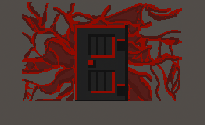
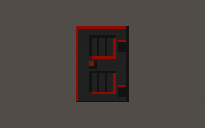
3 exit doors (1 real, 2 fake), single random key, battery 40s/drain

diff --git a/main.js b/main.js
@@ -269,29 +269,6 @@ function spawnEnemy() {
   enemy.y = close.y + 0.5;
 }
 
-function spawnTestItems() {
-  items = [];
-  const types = ['key_exit', 'key_fake1', 'key_fake2', 'map_piece'];
-  for (let i = 0; i < types.length; i++) {
-    for (let attempt = 0; attempt < 20; attempt++) {
-      const a = Math.random() * Math.PI * 2;
-      const dist = 2 + Math.random() * 3;
-      let x = player.x + Math.cos(a) * dist;
-      let y = player.y + Math.sin(a) * dist;
-      if (x >= 0 && x < MAP_W && y >= 0 && y < MAP_H && !isWall(x, y)) {
-        items.push({ x, y, type: types[i], collected: false });
-        break;
-      }
-    }
-  }
-  for (let i = 0; i < 10; i++) {
-    const cell = navCells[Math.random() * navCells.length | 0];
-    if (cell) {
-      items.push({ x: cell.x + 0.5, y: cell.y + 0.5, type: 'battery', collected: false });
-    }
-  }
-}
-
 function hasLineOfSight(x1, y1, x2, y2) {
   const dx = x2 - x1, dy = y2 - y1;
   const dist = Math.hypot(dx, dy);
@@ -450,10 +427,9 @@ doorMidTex.src = 'assets/images/door_mid.png';
 const doorOpenTex = new Image();
 doorOpenTex.src = 'assets/images/door_open.png';
 
-let exitDoorState = 'closed', exitDoorTimer = 0, exitDoorTimerMax = 0;
-let exitDoorX = -1, exitDoorY = -1;
+let exitDoors = [];
 
-function findExitDoor() {
+function findExitDoors() {
   const candidates = [];
   for (let y = 2; y < MAP_H - 2; y++) {
     for (let x = 2; x < MAP_W - 2; x++) {
@@ -466,13 +442,32 @@ function findExitDoor() {
       }
     }
   }
-  if (candidates.length) {
-    const pick = candidates[Math.random() * candidates.length | 0];
-    exitDoorX = pick.x; exitDoorY = pick.y;
-  } else {
-    exitDoorX = 3; exitDoorY = 3;
+  exitDoors = [];
+  const shuffled = candidates.slice().sort(() => Math.random() - 0.5);
+  for (let i = 0; i < 3 && i < shuffled.length; i++) {
+    exitDoors.push({
+      x: shuffled[i].x, y: shuffled[i].y,
+      state: 'closed', timer: 0, timerMax: 0,
+      isReal: i === 0
+    });
   }
-  exitDoorState = 'closed'; exitDoorTimer = 0; exitDoorTimerMax = 0;
+}
+
+function spawnKey() {
+  items = [];
+  const cells = [];
+  for (let y = 1; y < MAP_H; y += 2) {
+    for (let x = 1; x < MAP_W; x += 2) {
+      if (maze[y][x] === 0) {
+        const dist = Math.hypot(x + 0.5 - 1.5, y + 0.5 - 1.5);
+        if (dist > 3) cells.push({ x, y });
+      }
+    }
+  }
+  if (cells.length) {
+    const c = cells[Math.random() * cells.length | 0];
+    items.push({ x: c.x + 0.5, y: c.y + 0.5, type: 'key_exit', collected: false });
+  }
 }
 
 
@@ -531,18 +526,29 @@ function isWall(x, y) {
   return maze[my][mx] === 1;
 }
 
-function findExitDoorFace() {
-  const wallCX = exitDoorX + 0.5, wallCY = exitDoorY + 0.5;
+function findDoorFace(door) {
+  const wallCX = door.x + 0.5, wallCY = door.y + 0.5;
   const dx = player.x - wallCX, dy = player.y - wallCY;
   let fx, fy;
   if (Math.abs(dx) > Math.abs(dy)) {
-    fx = exitDoorX + (dx > 0 ? 1 : 0);
+    fx = door.x + (dx > 0 ? 1 : 0);
     fy = wallCY;
   } else {
     fx = wallCX;
-    fy = exitDoorY + (dy > 0 ? 1 : 0);
+    fy = door.y + (dy > 0 ? 1 : 0);
   }
   return { x: fx, y: fy };
+}
+
+function nearestDoor() {
+  let best = null, bestDist = Infinity;
+  for (const d of exitDoors) {
+    if (d.state !== 'closed') continue;
+    const face = findDoorFace(d);
+    const dist = Math.hypot(player.x - face.x, player.y - face.y);
+    if (dist < bestDist) { bestDist = dist; best = d; }
+  }
+  return bestDist < 2 ? { door: best, dist: bestDist, face: findDoorFace(best) } : null;
 }
 
 let moveT = 0;
@@ -960,7 +966,7 @@ function update(dt) {
   }
   if (lampOn && lampBattery > 0) {
     lampBatteryTimer += dt;
-    if (lampBatteryTimer >= 20) {
+    if (lampBatteryTimer >= 40) {
       lampBatteryTimer = 0;
       lampBattery--;
       if (lampBattery <= 0) { lampOn = false; }
@@ -1028,30 +1034,39 @@ function update(dt) {
   else if (canMove(player.x, ny)) { player.y = ny; }
   if (keys['e']) {
     keys['e'] = false;
-    const face = findExitDoorFace();
-    if (exitDoorState === 'closed' && Math.hypot(player.x - face.x, player.y - face.y) < 2) {
-      if (inventory.keys > 0) {
-        inventory.keys--;
-        exitDoorState = 'mid';
-        exitDoorTimer = 0.5;
-      } else {
-        notifications.unshift({ text: 'Necesitas una llave', timer: 2 });
-        if (notifications.length > 4) notifications.pop();
-      }
+    const near = nearestDoor();
+    if (near && near.door.state === 'closed' && inventory.keys > 0) {
+      inventory.keys--;
+      near.door.state = 'mid';
+      near.door.timer = 0.5;
+    } else if (near && near.door.state === 'closed') {
+      notifications.unshift({ text: 'Necesitas una llave', timer: 2 });
+      if (notifications.length > 4) notifications.pop();
     }
   }
-  if (exitDoorState === 'mid') {
-    exitDoorTimer -= dt;
-    if (exitDoorTimer <= 0) {
-      exitDoorState = 'open';
-      exitDoorTimer = 0.6;
-      exitDoorTimerMax = 0.6;
-    }
-  } else if (exitDoorState === 'open') {
-    exitDoorTimer -= dt;
-    if (exitDoorTimer <= 0 && !player.won) {
-      player.won = true;
-      player.winTime = performance.now();
+  for (const d of exitDoors) {
+    if (d.state === 'mid') {
+      d.timer -= dt;
+      if (d.timer <= 0) {
+        d.state = 'open';
+        d.timer = 0.6;
+        d.timerMax = 0.6;
+      }
+    } else if (d.state === 'open') {
+      d.timer -= dt;
+      if (d.timer <= 0) {
+        if (d.isReal) {
+          player.won = true;
+          player.winTime = performance.now();
+        } else {
+          const r = Math.random();
+          if (r < 0.33) { inventory.maps++; notifications.unshift({ text: 'Mapa encontrado', timer: 2 }); }
+          else if (r < 0.66) { lampBattery = Math.min(10, lampBattery + 2); notifications.unshift({ text: 'Batería encontrada', timer: 2 }); }
+          else { inventory.keys++; notifications.unshift({ text: 'Llave encontrada', timer: 2 }); }
+          if (notifications.length > 4) notifications.pop();
+          d.state = 'closed'; d.timer = 0; d.timerMax = 0;
+        }
+      }
     }
   }
 
@@ -1234,10 +1249,10 @@ function renderItems(hz) {
 
 
 function renderExitEIcon() {
-  if (exitDoorState !== 'closed' || exitDoorX < 0) return;
-  const face = findExitDoorFace();
-  const dist = Math.hypot(player.x - face.x, player.y - face.y);
-  if (dist > 2 || dist < 0.1) return;
+  const near = nearestDoor();
+  if (!near) return;
+  const face = near.face;
+  const dist = near.dist;
   const angle = Math.atan2(face.y - player.y, face.x - player.x);
   let rel = angle - pDir;
   while (rel < -Math.PI) rel += Math.PI * 2;
@@ -1408,10 +1423,15 @@ function render(time) {
     const brightness = f * wallBr;
 
     let wallTex = null;
-    if (hit && brightness > 0.005 && exitDoorX >= 0 && mapX === exitDoorX && mapY === exitDoorY) {
-      if (exitDoorState === 'closed' && doorTex.complete && doorTex.naturalWidth > 0) wallTex = doorTex;
-      else if (exitDoorState === 'mid' && doorMidTex.complete && doorMidTex.naturalWidth > 0) wallTex = doorMidTex;
-      else if (exitDoorState === 'open' && doorOpenTex.complete && doorOpenTex.naturalWidth > 0) wallTex = doorOpenTex;
+    if (hit && brightness > 0.005) {
+      for (const d of exitDoors) {
+        if (mapX === d.x && mapY === d.y) {
+          if (d.state === 'closed' && doorTex.complete && doorTex.naturalWidth > 0) wallTex = doorTex;
+          else if (d.state === 'mid' && doorMidTex.complete && doorMidTex.naturalWidth > 0) wallTex = doorMidTex;
+          else if (d.state === 'open' && doorOpenTex.complete && doorOpenTex.naturalWidth > 0) wallTex = doorOpenTex;
+          break;
+        }
+      }
     }
     if (wallTex) {
       const tw = wallTex.width, th = wallTex.height;
@@ -1583,10 +1603,13 @@ function render(time) {
   ctx.fillStyle = 'rgba(255,240,200,0.04)';
   ctx.fillRect(0, 0, W, H);
 
-  if (exitDoorState === 'open') {
-    const flash = 1 - (exitDoorTimer / exitDoorTimerMax);
-    ctx.fillStyle = `rgba(255,255,255,${flash})`;
-    ctx.fillRect(0, 0, W, H);
+  for (const d of exitDoors) {
+    if (d.state === 'open') {
+      const flash = 1 - (d.timer / d.timerMax);
+      ctx.fillStyle = `rgba(255,255,255,${flash})`;
+      ctx.fillRect(0, 0, W, H);
+      break;
+    }
   }
 
   if (gameOver) {
@@ -1770,7 +1793,8 @@ function render(time) {
 
 function restartGame() {
   generateMaze();
-  findExitDoor();
+  findExitDoors();
+  spawnKey();
   buildNavGrid();
   buildRouteTable();
   player.x = 1.5; player.y = 1.5; player.dir = 0; player.pitch = 0;
@@ -1802,7 +1826,6 @@ function restartGame() {
   enemy.routeDir = 0;
   inventory = { keys: 0, batteries: 0, maps: 0 };
   spawnEnemy();
-  spawnTestItems();
 }
 
 canvas.addEventListener('click', (e) => {
@@ -1885,9 +1908,9 @@ function loop(now) {
 }
 
 generateMaze();
-findExitDoor();
+findExitDoors();
+spawnKey();
 buildNavGrid();
 buildRouteTable();
 spawnEnemy();
-spawnTestItems();
 requestAnimationFrame((now) => { last = now; loop(now); });